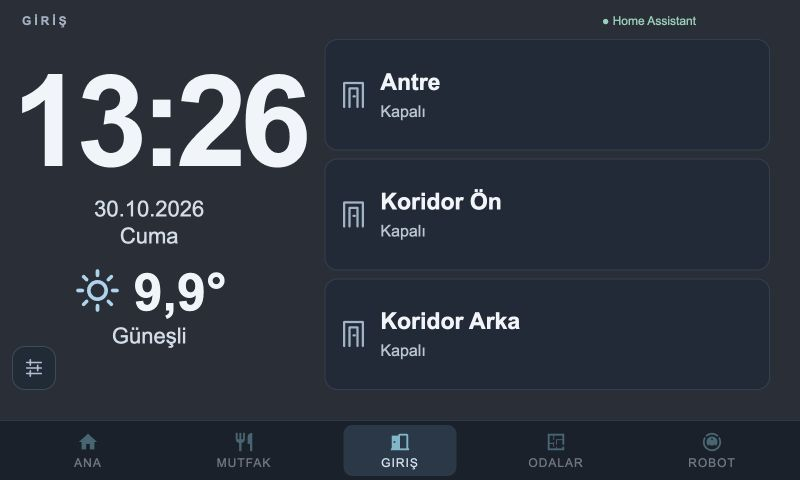
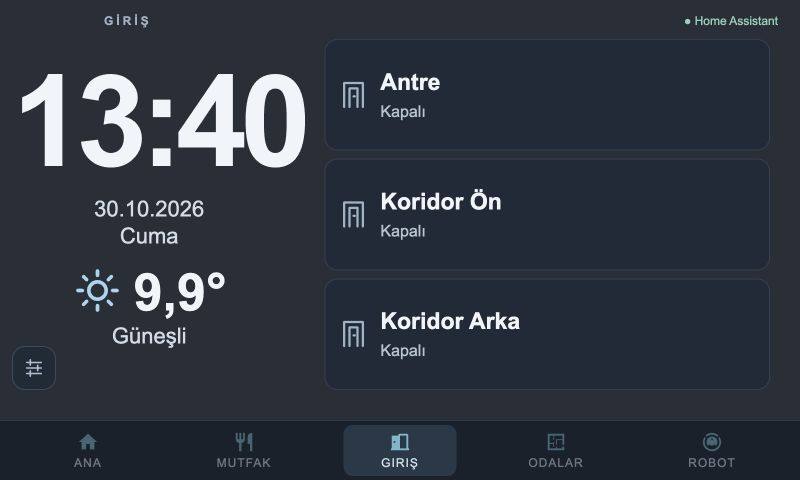
Reserve top-left native battery space across all panel headers

diff --git a/examples/panel-v2/panel.css b/examples/panel-v2/panel.css
@@ -6,7 +6,7 @@ body.panel-v2 { background:#171d27; color:#f2f4f8; font-family:Arial,sans-serif;
 .panel-v2 .pv2-screen > .layout-container { display:none !important; }
 .pv2-panel { position:absolute; top:14px; bottom:90px; left:22px; right:22px; font-family:Arial,sans-serif; }
 .pv2-panel *,.pv2-modal * { box-sizing:border-box; }
-.pv2-top { height:25px; display:-webkit-flex; display:flex; -webkit-justify-content:space-between; justify-content:space-between; padding-right:82px; }
+.pv2-top { height:25px; display:-webkit-flex; display:flex; -webkit-justify-content:space-between; justify-content:space-between; padding-left:82px; padding-right:0; }
 .pv2-brand { font-size:12px; font-weight:bold; letter-spacing:3px; color:#adb8c9; }
 .pv2-connection { font-size:12px; color:#9fd8c2; }
 .pv2-body { height:calc(100% - 25px); display:-webkit-flex; display:flex; }

diff --git a/docs/panel-v2.md b/docs/panel-v2.md
@@ -29,7 +29,9 @@ overlay and is therefore absent in a desktop browser.
 The left column has a large clock, two-line Turkish date, larger weather and an
 optional fresh meeting indicator. Every room/robot tab retains this same left
 column, with room-specific controls on the right. The battery overlay has its
-own reserved area at the top right on every screen. The right column has eight controls, in this row order:
+own reserved area at the top left on every screen. The native badge is 58 × 28 dp
+with 8 dp top/left margins; headers start after an additional 82 CSS px inset
+inside the 22 px panel gutter, keeping every tab title clear of this native layer. The right column has eight controls, in this row order:
 
 | Left | Right |
 | --- | --- |
